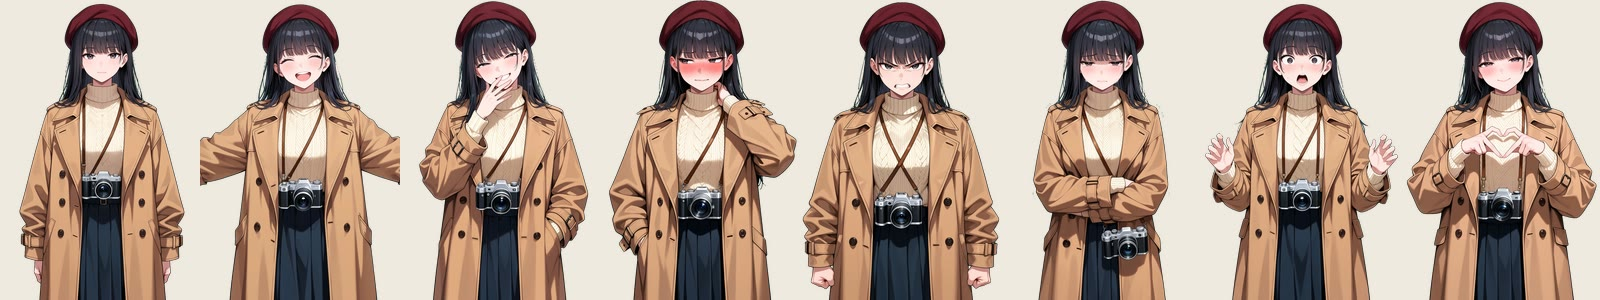
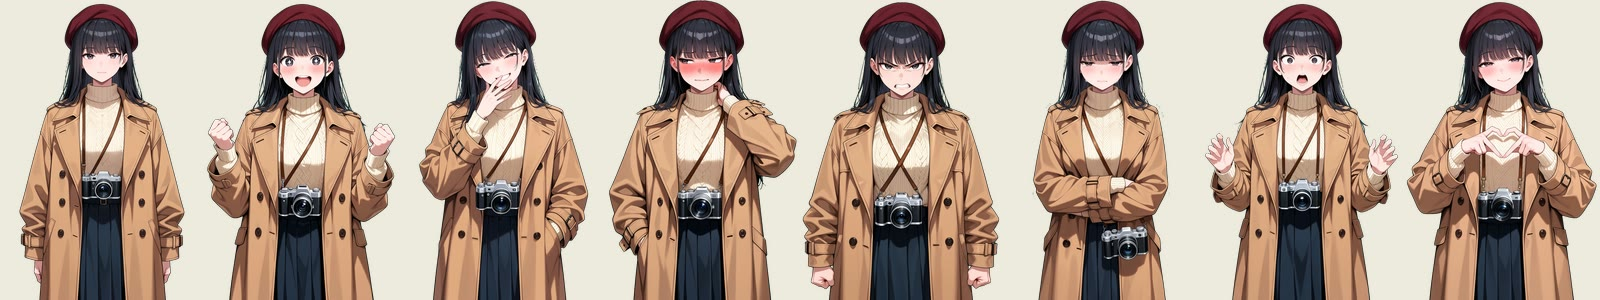
The README shows Tokyo in pictures: scenes from the beach, the festivals, the share house, an arcade and six workplaces, all 39 people, an outfit strip, Tokyo's things, screenshots of a scene and the unfolded phone, and the adult industry's people and nights kept safe for work

Changed region(s): [[0.125, 0.03, 0.25, 1.0]]

diff --git a/README.md b/README.md
@@ -9,11 +9,12 @@
 </p>
 
 <p align="center">
-  <a href="#install">Install</a> ·
+  <a href="#install"><b>Install</b></a> ·
   <a href="#a-city-with-a-clock">The city</a> ·
   <a href="#people-with-lives-of-their-own">The people</a> ·
   <a href="#a-life-to-build">Your life</a> ·
   <a href="#the-long-game">The long game</a> ·
+  <a href="#after-dark">After dark</a> ·
   <a href="#under-the-hood">Under the hood</a>
 </p>
 
@@ -25,119 +26,125 @@
 
 <p align="center">
   <img src="docs/readme/scene-shrine.jpg" width="49%" alt="Yui at Tsukimi Inari Shrine on a snowy night">
-  <img src="docs/readme/scene-ramen.jpg" width="49%" alt="Genzō and Ayaka at Ramen Kamejirō">
+  <img src="docs/readme/scene-sky.jpg" width="49%" alt="Ayame Mikage at the Meridian Hills Sky Museum at night, Tokyo Tower lit behind her">
+  <img src="docs/readme/scene-beach.jpg" width="49%" alt="Momo, Yui and Kaede in swimwear at Odaiba Seaside Park in summer">
+  <img src="docs/readme/scene-festival.jpg" width="49%" alt="Tamaki and Yui in yukata by the Sumida River on a summer night">
 </p>
+
+<p align="center"><img src="docs/readme/ui-scene.jpg" alt="A scene in Yokohama Chinatown at 20:10 on a Saturday: Kaito, Rina and Akane under the lanterns, the conversation below, the clock and place at the top, your needs and money on the left, and things to do on the right"></p>
+<p align="center"><sub>How it plays: you write what you say or do, your AI answers as the people in the scene, and the
+engine keeps the clock, the money and the feelings around them.</sub></p>
 
 ## A city with a clock
 
 <p align="center"><img src="docs/readme/map.jpg" alt="The map of Tokyo, by day on the left and by night on the right"></p>
 
 Eight districts, from Shibuya and Shinjuku to Asakusa, Akihabara and Odaiba, plus Yokohama and Hakone for a day
-away. Each district has its own illustrated map, by day and by night. You get between them by train: trips take the
-real time for the distance, the last train really is the last, and after it there's a taxi.
-
-Time moves when you act. Shops open and close, people go to work and come home, and you get tired, hungry and
-behind on rent.
+away. You get around by train: trips take real time, and the last train really is the last one. Shops open and close,
+people go to work and come home, and you get tired, hungry and behind on rent.
 
 <p align="center"><img src="docs/readme/day.jpg" alt="The view from the Metropolitan Government Observatory by day, at sunset and at night"></p>
-<p align="center"><sub>Places are drawn for the morning, the afternoon and the night, and outdoors for the rain as well.</sub></p>
+<p align="center"><sub>Every place is drawn for the morning, the afternoon and the night, and outdoors for the rain as well.</sub></p>
 
 <p align="center"><img src="docs/readme/year.jpg" alt="Ueno Park in summer, at cherry-blossom time, in autumn and in winter"></p>
-<p align="center"><sub>The year turns too: cherry blossom, summer green, autumn leaves, bare branches and the odd snow day.</sub></p>
-
-- **Tokyo's calendar.** 34 festivals and events, from Sanja Matsuri and the Sumida fireworks to Bon Odori and the
-  New Year's shrine visit, plus typhoons and heat waves.
-- **It sounds like Tokyo.** Places play field recordings (station crowds, an izakaya, a konbini door, cicadas in
-  summer, a temple bell), following the hour and how busy it is.
-- **Small rituals.** Pray and draw omikuji at the shrines, drink with colleagues after work, and watch names change
-  as you get closer, from family name and -san to first names. Start as a foreigner and there's a language barrier
-  to work through.
+<p align="center"><sub>The year turns: cherry blossom, summer green, autumn leaves, bare branches and the odd snow day.
+34 festivals and events, from Sanja Matsuri and the Sumida fireworks to the New Year's shrine visit.</sub></p>
 
 <p align="center"><img src="docs/readme/districts.jpg" alt="Ten district maps: Shibuya, Shinjuku, Akihabara, Asakusa and Ueno, Odaiba, Marunouchi, Roppongi, Kōenji, Hakone and Yokohama"></p>
+<p align="center"><sub>Each district has its own illustrated map, by day and by night. Every place plays its own sounds
+(station crowds, an izakaya, cicadas in summer, a temple bell), following the hour and how busy it is.</sub></p>
 
 ## People with lives of their own
 
-<p align="center"><img src="docs/readme/cast.jpg" alt="Sixteen of Tokyo's people"></p>
+<p align="center"><img src="docs/readme/cast.jpg" alt="All 39 of Tokyo's people"></p>
 
 An art student working night shifts, a band that can't agree on its future, a ramen master and his daughter, a
-shrine maiden, an English teacher three years in, a host, a section chief, an idol. Each has a home, a job with
-shifts, friends, favorite places and a full set of expressions.
+shrine maiden, a photographer, a rival collector, a dealer with a camper van, a host, a section chief, an idol. Each
+has a home, a job with shifts, friends, favorite places and a storyline that waits for you at its turning point.
 
-<p align="center"><img src="docs/readme/expressions.jpg" alt="Seo-yeon's expressions: calm, joyful, amused, embarrassed, angry, sad, surprised and in love"></p>
+<p align="center"><img src="docs/readme/expressions.jpg" alt="Seo-yeon's expressions: calm, excited, amused, embarrassed, angry, sad, surprised and in love"></p>
 <p align="center"><sub>28 expressions per person, each a pose of its own. The scene shows whichever fits the line.</sub></p>
 
-- **Your cast, your choice.** Choose Tokyo's people one by one when you start a game. Leave out every man, or anyone
-  else, and the world still works: jobs, storylines, businesses and the museum are all built to run with whoever
-  you keep. Then bring in your own SillyTavern characters: each gets a home, a routine and a job in the city, and
-  you say how they know you. Their cards stay as they are.
-- **Feelings go both ways.** Everyone feels their own way about you and about each other. Friendship and romance
-  are separate bars: a best friend can stay a friend, and a rival can still become something more.
-- **Scenes count.** When a scene ends, the engine judges it. Kindness, flirting, a fight or an insult change how
-  people feel. Swiping a reply doesn't stack the effect.
-- **They take the initiative.** People text you, ask you out, confess, warn you before a breakup, hold grudges until
-  you apologize, get jealous and talk about you to their friends.
-- **They live without you.** The world's people make friends, fall out, date, marry and break up from their own
-  feelings, and couples go on dates of their own.
-- **Storylines that wait for you.** 34 people carry a story: a debt, an exam, a visa, a lease, someone leaving. It
-  runs through the seasons, and at its turning point it waits for you. Help, wait for a better ending, or let it go.
-- **Who people are.** Gender, attraction, intimacy style, exclusive or open: set per person, or let your AI suggest
-  it from the card. Not everyone is drawn to everyone.
-- **Dressed for the place.** At the pool, on the beach in summer or at a swimsuit hot spring, people change into
-  their own swimwear, each as bold as they go in public. Tamaki wears her yukata to the summer festivals.
-- **Under one roof.** The Kōenji share house has a room for each of you, a kitchen and a common room, and your
-  housemates keep its rhythm: breakfast in the kitchen, the TV in the evening, a knock on your door. A close friend
-  can come and stay for a few days.
+- **Feelings go both ways.** Friendship and romance are separate bars. Kindness, flirting, a fight or an insult
+  change how people feel once the engine has judged the scene.
+- **They take the initiative.** People text you, ask you out, confess, hold grudges and get jealous. Among themselves
+  they make friends, date, marry and break up.
+- **Your cast, your choice.** Pick Tokyo's people one by one and bring in your own SillyTavern characters. Each one
+  gets a home, a routine and a job.
+
+<p align="center"><img src="docs/readme/outfits.jpg" alt="Tamaki Kurahashi in six outfits: her everyday clothes, off duty, an opening-night dress, at home, a yukata and a swimsuit"></p>
+<p align="center"><sub>What people wear follows the place and the story: swimwear at the beach and the pool, yukata at
+the summer festivals, a gown for an opening night, and their own clothes at home.</sub></p>
 
 <p align="center">
-  <img src="docs/readme/scene-bar.jpg" width="49%" alt="Kyōko behind the counter of Bar Kotori in Golden Gai">
-  <img src="docs/readme/scene-kura.jpg" width="49%" alt="Ayame, Tamaki and Kaede in the Kurahashi kura">
+  <img src="docs/readme/scene-share.jpg" width="49%" alt="Haru, Mio, Ren and Chloe in the common room of the Kōenji share house at night">
+  <img src="docs/readme/scene-arcade.jpg" width="49%" alt="Nanami and Linh among the claw machines at Pixel Castle in Akihabara">
 </p>
+<p align="center"><sub>The Kōenji share house, where your housemates keep the house's rhythm, and Nanami and Linh at an
+Akihabara arcade on their day off.</sub></p>
 
 ## A life to build
 
 Pick one of seven starts (up from the countryside, a university student, new in Japan, down on your luck…) or write
 your own, and go from there.
 
+<p align="center">
+  <img src="docs/readme/scene-studio.jpg" width="32%" alt="Erika Mizushima with her camera at Studio MIZU in Shibuya">
+  <img src="docs/readme/work-idol.jpg" width="32%" alt="Hina on stage at Stage Starlight in Akihabara">
+  <img src="docs/readme/work-office.jpg" width="32%" alt="Daisuke and Reiko on the office floor of Asahina Trading">
+  <img src="docs/readme/work-game.jpg" width="32%" alt="Natsuki and Hannah at Mochi Byte Games, a game studio in Akihabara">
+  <img src="docs/readme/work-kissa.jpg" width="32%" alt="Seo-yeon at Kissa Shirakaba, an old coffee house">
+  <img src="docs/readme/work-ryokan.jpg" width="32%" alt="Shizuka at Ryokan Kasumi-sō in Hakone">
+</p>
+<p align="center"><sub>Six of 50 careers, each with its own people: the photographer at Studio MIZU, the idol at Stage
+Starlight, the office at Asahina Trading, the game developers at Mochi Byte Games, the kissaten and the ryokan in Hakone.</sub></p>
+
 | | |
 |---|---|
-| **Work** | 50 careers with ranks, shifts and days off. Interviews are earned with skills and the right traits, not by asking again tomorrow. Promotions say what they still need. One career is a streamer, starting from your room; another is a photographer, assisting at a studio until you go freelance. |
-| **Skills** | 16 skills that level up from practice, courses and the people around you. A friend can teach you what they know, or you trade: your English for their Japanese. |
-| **Study** | Courses that run for weeks on a timetable. Or Hijiri University: terms, modules, coursework, grades and a GPA, a scholarship you can lose, and graduation. |
-| **Goals** | 38 life goals for Tokyo, from *make it in Tokyo* to *find love*. Finish one for a perk that changes the numbers for good; its steps earn points for a small rewards shop, shrine charms included. |
+| **Work** | 50 careers with ranks, shifts and days off. Interviews are earned with skills and the right traits. Ramen cook, nurse, animator, idol, rickshaw puller, streamer… |
+| **Skills** | 16 skills that level up from practice, courses and the people around you. A friend can teach you, or you trade: your English for their Japanese. |
+| **Study** | Courses on a timetable, or Hijiri University: terms, coursework, grades, a GPA and a scholarship you can lose. |
+| **Goals** | 38 life goals, from *make it in Tokyo* to *find love*, each with a perk for good, and life points for a small rewards shop. A storyline that ended badly can even get a second chance. |
 
 ## The long game
 
 Once rent stops being the worry, Tokyo has something to aim for.
 
-- **Run a business.** Take over an old kissaten when its master retires, or lease a unit and name your own café,
-  then grow it from a stand to a roastery. Climb past the top rank to the executive floor and run a division. Or
-  own hotels: a capsule hotel in Shinjuku, and a ryokan in Hakone as a partner of the family that runs it.
-- **Own your home.** Buy a flat or a villa, fit it out with saunas, a grand piano or a hot-spring bath, and let the
-  homes you don't live in. A tenant's rent arrives every Monday.
-- **Shop.** About 165 things, from a ¥1,000 charm to a car with a driver that takes you home after the last train.
-  The AI knows what people can see on you and what's in your home.
-- **Make a name with a camera.** Everyone gets Lens, a phone app for their photos, each a picture of the place as it
-  was and the people in it. A camera opens a board of small paid gigs; assist Erika Mizushima at Studio MIZU, then go
-  freelance in editorial, weddings and events or studio portraits: briefs with a window of light and weather, a
-  deadline and a client's stars, a portfolio, a photo studio of your own and photobooks that pay royalties.
-- **Build a museum.** Collect art, crafts and antiques from finds, festival stalls, a dealer's camper van and four
-  auctions a year. Catch insects and fish in their season, join the university's autumn dig, and turn an old Yanaka
-  storehouse into a private museum.
+<p align="center"><img src="docs/readme/items.jpg" alt="Forty-eight of Tokyo's things: keepsakes, gifts, instruments, cameras, cars, watches, home fixtures and charms"></p>
+<p align="center"><sub>Tokyo's 339 keepsakes, shop items, rewards, home fixtures and museum upgrades each have a picture, from
+a ¥1,000 charm to a car that drives you home after the last train.</sub></p>
+
+- **Run a business.** Take over an old kissaten or open your own café and grow it into a roastery. You can also run a
+  division on the executive floor, or own a capsule hotel in Shinjuku and be a partner in a ryokan in Hakone.
+- **Own your home.** Buy a flat or a villa, fit it out with a sauna, a grand piano or a hot-spring bath, and let the
+  homes you don't live in.
+- **Build a museum.** Collect art, antiques, insects and fish, join a university dig, outbid a rival at four auctions
+  a year, and turn an old Yanaka storehouse into a private museum.
 
 <p align="center"><img src="docs/readme/museum.jpg" alt="Sixteen museum pieces: prints, armor, a katana, pottery, a dogū, a haniwa, Naumann's elephant, insects, a koi and toys"></p>
+<p align="center"><img src="docs/readme/scene-kura.jpg" width="70%" alt="Ayame, Tamaki and Kaede in the Kurahashi kura"></p>
+<p align="center"><sub>The museum has its own people: Tamaki the curator, Kaede the dealer and Ayame the rival, each
+with storylines of their own.</sub></p>
 
-The museum has its own people. **Tamaki Kurahashi**, a former child TV appraiser, curates it and lets you closer
-as it fills. **Kaede Utsumi** sells from her van and warms to you with every purchase. **Ayame Mikage**, heir to a
-rival foundation, bids against you, and lets you a little closer with every lot you take from her. All three have
-storylines of their own.
+## After dark
 
-A **Tokyo memories** record fills itself as you play: every storyline, festival, district and milestone you've
-lived through.
+One switch, off by default. Leave it off and none of this is in your game. Turn it on and Tokyo's night life opens
+up: more people, places, careers and storylines, private moments with their own rules, and a career in the adult
+film industry.
 
-### Adult content, if you want it
+<p align="center"><img src="docs/readme/industry.jpg" alt="Naomi Reid-Kagami, the director, and the industry's ten actresses and two actors"></p>
 
-One switch, off by default. Turn it on and Tokyo's night life opens up: more people, places, careers, storylines,
-and a Sensuality skill with its own rules. Leave it off and none of it is in your game.
+<p align="center">
+  <img src="docs/readme/scene-set.jpg" width="32%" alt="Naomi Reid-Kagami on Kurobara Visual's set in Nakano">
+  <img src="docs/readme/night-house.jpg" width="32%" alt="Two of the industry's actresses at the rented house in Setagaya used as a set">
+  <img src="docs/readme/night-expo.jpg" width="32%" alt="Three of the industry's actresses, the cosplayer, the rookie and the idol, at the Tokyo Bay Exhibition Center">
+  <img src="docs/readme/night-kabuki.jpg" width="32%" alt="Shiori and Kaoru under the Kabukichō gate at night">
+  <img src="docs/readme/night-hostess.jpg" width="32%" alt="Sayuri and Tsubaki at Club Hibiscus, a hostess club in Yokohama">
+  <img src="docs/readme/night-club.jpg" width="32%" alt="Lisa and Airi at Club Undertow in Roppongi">
+</p>
+<p align="center"><sub>Naomi Reid-Kagami runs Kurobara Visual in Nakano: work title by title as a performer, become a
+name director, or start a label of your own, and meet the fans at the industry's expo. Around it, Kabukichō, a hostess
+club in Yokohama and Roppongi's clubs, each with people of their own.</sub></p>
 
 ## Under the hood
 
@@ -147,17 +154,21 @@ are cards, you are a persona, the world's lore is a lorebook, and **a save is a 
 - **The engine owns the numbers, the AI plays the scenes.** The AI is told the state of the world each turn. When
   the engine needs an answer (how did that scene go?), it asks a short follow-up question and reads the reply, so
   free text never sets money, time or feelings.
-- **A visual-novel scene.** Say, Do, Story or See. Type `@` to choose who answers. Each speaker's dialogue gets their
-  own color.
-- **A phone** that unfolds to twice its width: Messages (with the news of the town and the people you know, and
-  texts that make plans), People, Work (Jobs, Campus, Business and Lens), Money, Homes, a Calendar that's an agenda,
-  Goals, Collection, and a dating app (Spark) where a like might be answered days later, or never.
+- **A visual-novel scene.** Say, Do, Story or See, `@` to choose who answers, a color for each speaker, and an eye to
+  hide the interface and just look.
+- **A phone** that unfolds to twice its width: Messages, People, Work (Jobs, Campus, Business), Lens, Money, Homes,
+  a Calendar that can wait until it's time to go, Goals, Collection, and Spark, a dating app with real profiles.
+
+<p align="center">
+  <img src="docs/readme/phone-messages.jpg" width="49%" alt="The phone unfolded on Messages: the news and conversations on the left, a conversation with Yui on the right">
+  <img src="docs/readme/phone-people.jpg" width="49%" alt="The phone unfolded on People: the people you know on the left, Kyōko's page with her memories on the right">
+  <img src="docs/readme/phone-shop.jpg" width="49%" alt="The phone unfolded on the Shop: categories on the left, tech items with their pictures and prices on the right">
+  <img src="docs/readme/phone-home.jpg" width="49%" alt="The phone's home screen: the Today card and the apps">
+</p>
+
 - **A diary.** Each night the day becomes a short entry, so the story remembers.
-- **Households and "Play as".** Live with family or roommates, and (with Play as turned on in Settings) switch to playing any of them.
-- **A World creator that edits everything,** Tokyo included: places, people, jobs, storylines, rules, pictures.
-  Overlay files let you add to a built-in world without touching it.
-- **Layouts and themes.** Visual novel, Classic or Cards, glass colors and transparency, and upright or sideways
-  phone layouts.
+- **A World creator that edits everything,** Tokyo included. Overlay files add to a built-in world without touching
+  it.
 - **In English, Portuguese and Spanish.**
 
 <p align="center">
